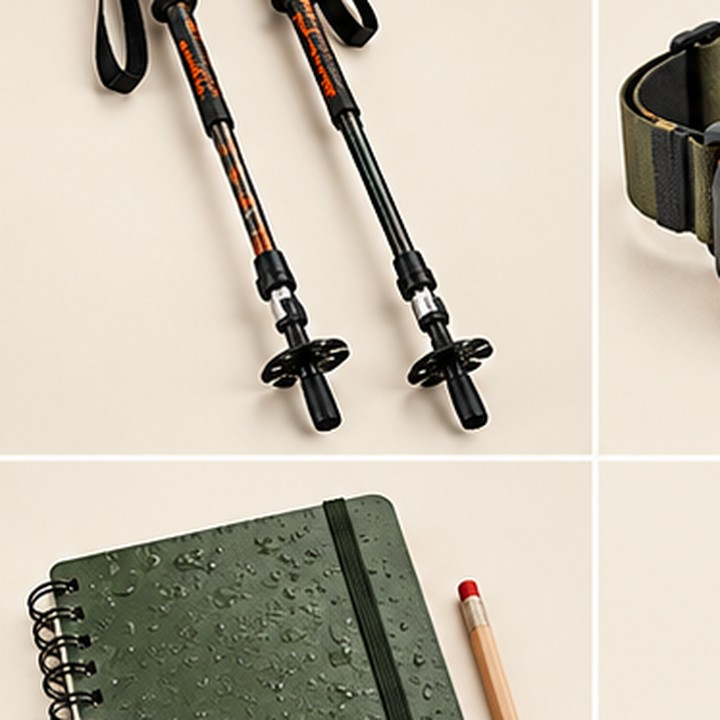
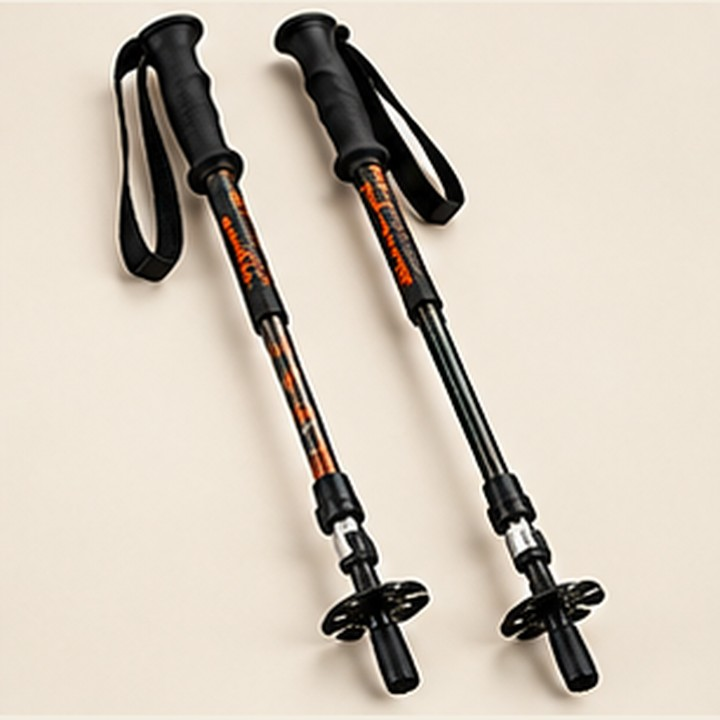
Add files via upload

diff --git a/css/styles.css b/css/styles.css
@@ -1,5 +1,5 @@
 @import url('https://fonts.googleapis.com/css2?family=DM+Sans:wght@400;500;600;700&family=Playfair+Display:ital,wght@0,500;0,600;0,700;1,500;1,600&display=swap');
-:root{--forest:#183b2d;--forest2:#254e3b;--moss:#758361;--cream:#f3f0e6;--paper:#fbfaf5;--sand:#dfd5bf;--orange:#db6a36;--ink:#1e2922;--muted:#69736a;--line:#deded2;--max:1380px}*{box-sizing:border-box}html{scroll-behavior:smooth;scroll-padding-top:90px}body{margin:0;background:var(--paper);color:var(--ink);font-family:'DM Sans',Arial,sans-serif;line-height:1.5}a{color:inherit;text-decoration:none}button,input,select{font:inherit}button{cursor:pointer;color:inherit}.sr-only{position:absolute;width:1px;height:1px;padding:0;margin:-1px;overflow:hidden;clip:rect(0,0,0,0);white-space:nowrap;border:0}.topline{display:flex;justify-content:space-between;padding:8px max(22px,calc((100vw - var(--max))/2));background:var(--forest);color:#e9e9d7;font-size:9px;letter-spacing:.15em}.header{max-width:var(--max);margin:auto;padding:17px 28px;display:grid;grid-template-columns:260px minmax(230px,1fr) auto;gap:28px;align-items:center}.brand{display:flex;align-items:center;gap:10px}.brand img{width:58px;height:58px;object-fit:contain}.brand span{display:flex;flex-direction:column;line-height:1.1}.brand b{font-family:'Playfair Display',serif;font-size:27px;letter-spacing:.08em}.brand small{font-size:8px;letter-spacing:.14em;color:var(--moss);margin-top:5px;font-weight:700}.search{height:43px;display:flex;border:1px solid #d6d7cc;background:white;border-radius:3px;max-width:650px;width:100%}.search:focus-within{border-color:var(--forest)}.search input{flex:1;min-width:0;border:0;outline:0;padding:0 14px;background:transparent;font-size:12px}.search button{width:44px;border:0;background:var(--forest);color:white;font-size:25px}.header-actions{display:flex;gap:16px}.head-action{border:0;background:transparent;font-size:13px;display:flex;align-items:center;gap:7px}.head-action b{background:var(--forest);color:white;border-radius:50%;font-size:10px;min-width:20px;height:20px;display:grid;place-items:center}.nav{display:flex;justify-content:center;gap:0;border-top:1px solid var(--line);border-bottom:1px solid var(--line);overflow:auto;white-space:nowrap;padding:0 10px;background:#fffdf8}.nav a{padding:13px 19px;font-size:11px;color:#4c594f;border-bottom:2px solid transparent}.nav a:hover,.nav a.selected{border-color:var(--orange);color:var(--forest)}main{max-width:var(--max);margin:auto}.hero{position:relative;min-height:570px;overflow:hidden;background:#22382c;display:flex;align-items:center;color:white}.hero-image{position:absolute;inset:0;width:100%;height:100%;object-fit:cover;object-position:center 56%}.hero-shade{position:absolute;inset:0;background:linear-gradient(90deg,rgba(17,39,29,.94) 0%,rgba(22,47,35,.79) 35%,rgba(22,47,35,.24) 72%,rgba(22,47,35,.1) 100%)}.hero-copy{position:relative;z-index:1;padding:64px 6.5%;max-width:680px}.eyebrow{margin:0 0 14px;font-size:9px;letter-spacing:.19em;font-weight:700;color:var(--orange)}.hero .eyebrow{color:#f4c89c}.hero .eyebrow span{display:inline-block;width:7px;height:7px;background:var(--orange);border-radius:50%;margin-right:9px}.hero h1{font-family:'Playfair Display',serif;font-size:clamp(54px,7vw,92px);line-height:.96;letter-spacing:-.05em;margin:0 0 20px;font-weight:600}.hero h1 em,.section-head h2 em,.wide-callout h2 em,.story h2 em,.newsletter h2 em{font-style:italic;color:#e9b080}.hero-copy>p:not(.eyebrow){max-width:455px;color:#e0e5db;font-size:15px;line-height:1.8;margin:0 0 26px}.hero-buttons{display:flex;gap:10px;flex-wrap:wrap}.button{display:inline-flex;justify-content:center;align-items:center;gap:18px;border:1px solid transparent;border-radius:2px;padding:13px 17px;font-size:11px;font-weight:700;transition:transform .2s,background .2s}.button:hover{transform:translateY(-2px)}.button-orange{background:var(--orange);color:white}.button-orange:hover{background:#c85b2b}.button-light{background:#fffaf0;color:var(--forest);border-color:#fffaf0}.button-green{background:var(--forest);color:white}.button-green:hover{background:var(--forest2)}.hero-caption{display:flex;gap:14px;align-items:center;margin-top:43px;font-size:10px;color:#d1d9ce}.hero-caption b{color:#f2b78d;letter-spacing:.14em}.hero-stamp{position:absolute;right:5%;bottom:40px;border:1px solid #f5e9d099;border-radius:50%;width:110px;height:110px;display:flex;flex-direction:column;align-items:center;justify-content:center;color:#f7f0e0;text-align:center;font-size:11px;font-weight:700;letter-spacing:.12em;transform:rotate(10deg)}.hero-stamp b{font-size:20px;color:#f2b78d}.principles{display:grid;grid-template-columns:repeat(3,1fr);border-bottom:1px solid var(--line);padding:23px 42px;gap:20px;background:#f3f0e6}.principles>div{display:flex;align-items:center;gap:14px}.principles>div>b{font-family:'Playfair Display',serif;font-size:25px;color:var(--orange)}.principles strong,.principles small{display:block}.principles strong{font-size:12px}.principles small{font-size:10px;color:var(--muted);margin-top:3px}.section{padding:70px 34px}.section-head{display:flex;justify-content:space-between;align-items:end;gap:24px;margin-bottom:28px}.section-head h2,.story h2,.newsletter h2{font-family:'Playfair Display',serif;font-size:clamp(34px,4vw,49px);line-height:1.05;letter-spacing:-.035em;margin:0}.section-head h2 em,.story h2 em,.newsletter h2 em{color:var(--forest)}.section-head>p{max-width:350px;color:var(--muted);font-size:12px;margin:0 0 3px}.category-grid{display:grid;grid-template-columns:repeat(4,1fr);gap:13px}.category-card{min-height:230px;position:relative;overflow:hidden;border:0;text-align:left;color:white;padding:22px;display:flex;flex-direction:column;align-items:flex-start;justify-content:flex-end;background:var(--forest);isolation:isolate}.category-card:before{content:"";position:absolute;inset:0;z-index:-1;transition:transform .35s;background:linear-gradient(0deg,rgba(13,37,26,.91),rgba(13,37,26,.04))}.category-card:hover:after{transform:scale(1.06)}.category-card:after{content:"";position:absolute;inset:0;z-index:-2;transition:transform .35s;background-size:cover;background-position:center}.cat-map:after{background-image:url('../assets/images/products/topographic-map-set.jpg')}.cat-nav:after{background-image:url('../assets/images/products/baseplate-compass.jpg')}.cat-hike:after{background-image:url('../assets/images/products/trekking-poles.jpg')}.cat-pack:after{background-image:url('../assets/images/products/hiking-backpack.jpg')}.category-index{position:absolute;top:17px;left:20px;font-size:8px;letter-spacing:.17em;color:#f0c49c}.category-symbol{font-family:'Playfair Display',serif;font-size:42px;line-height:1;margin-bottom:auto;color:#f0c49c}.category-card strong{font-family:'Playfair Display',serif;font-size:22px;font-weight:500}.category-card small{font-size:10px;margin-top:6px;color:#eee7d8}.shop{padding-top:12px}.shop-toolbar{display:flex;align-items:center;justify-content:space-between;margin:0 0 15px;padding:12px 0;border-top:1px solid var(--line);font-size:10px;color:var(--muted)}.shop-toolbar>div{display:flex;gap:8px}.shop-toolbar select{border:1px solid #d4d5ca;background:#fffdf8;padding:9px 24px 9px 10px;color:var(--ink);font-size:10px;border-radius:2px}.product-grid{display:grid;grid-template-columns:repeat(4,minmax(0,1fr));gap:14px}.product-card{border:1px solid #e0dfd4;background:#fffdf8;min-width:0;transition:transform .2s,border-color .2s;position:relative}.product-card:hover{transform:translateY(-4px);border-color:#a6b09a}.product-image{aspect-ratio:1/1;background:#f0ebdf;position:relative;overflow:hidden}.product-image img{width:100%;height:100%;display:block;object-fit:contain;object-position:center}.product-label{position:absolute;left:10px;top:10px;background:#f8f4e9;color:var(--forest);padding:5px 7px;font-size:7px;font-weight:700;letter-spacing:.13em}.favorite{position:absolute;right:9px;top:9px;border:1px solid #d7d7cb;background:#fffdf8;border-radius:50%;width:31px;height:31px;font-size:18px;display:grid;place-items:center;color:var(--forest)}.favorite.active{background:var(--orange);color:white;border-color:var(--orange)}.product-info{padding:15px}.product-category{font-size:8px;letter-spacing:.15em;color:var(--moss);font-weight:700;margin:0 0 7px}.product-info h3{font-family:'Playfair Display',serif;font-size:17px;line-height:1.2;margin:0 0 8px;font-weight:600}.product-desc{font-size:10px;color:var(--muted);line-height:1.6;margin:0 0 14px;min-height:48px}.product-bottom{display:flex;align-items:center;justify-content:space-between;gap:8px}.price{font-size:17px;font-weight:700;letter-spacing:-.04em}.add-btn{border:1px solid var(--forest);background:var(--forest);color:white;padding:9px 10px;font-size:9px;font-weight:700;white-space:nowrap}.add-btn:hover{background:var(--orange);border-color:var(--orange)}.view-btn{border:0;background:transparent;color:var(--forest);font-size:10px;text-decoration:underline;text-underline-offset:3px;padding:12px 0 0}.wide-callout{margin:0 34px 60px;background:var(--forest);color:#f8f5eb;min-height:280px;padding:42px 5%;display:flex;justify-content:space-between;align-items:center;overflow:hidden;position:relative}.wide-callout .eyebrow{color:#f2b78d}.wide-callout h2{font-family:'Playfair Display',serif;font-size:clamp(28px,4vw,45px);line-height:1.13;margin:0 0 14px}.wide-callout p:not(.eyebrow){max-width:510px;color:#d5dfd3;font-size:12px}.wide-callout a,.under-link{display:inline-block;margin-top:10px;font-size:11px;font-weight:700;color:#f2b78d;border-bottom:1px solid #f2b78d;padding-bottom:5px}.callout-mark{width:190px;height:190px;border:1px solid #cdd9bf70;border-radius:50%;display:grid;place-items:center;position:relative;flex-shrink:0;margin-right:5%}.callout-mark:before,.callout-mark:after{content:"";position:absolute;inset:15px;border:1px solid #cdd9bf55;border-radius:50%}.callout-mark:after{inset:35px}.callout-mark span{font-family:'Playfair Display',serif;font-size:90px;color:#e9b080}.callout-mark i{position:absolute;right:17px;top:20px;font-size:28px;color:#e9b080;font-style:normal}.story{display:grid;grid-template-columns:1fr 1fr;gap:60px;align-items:center;padding:10px 34px 72px}.story-map{background:var(--cream);padding:20px}.story-map img{display:block;width:100%;aspect-ratio:1.35;object-fit:cover}.story h2{margin-bottom:18px}.story p:not(.eyebrow){font-size:12px;color:var(--muted);line-height:1.9}.newsletter{display:flex;align-items:center;justify-content:space-between;gap:30px;padding:40px 34px;background:#ece8dc;border-top:1px solid #ded9ca}.newsletter h2{font-size:34px}.newsletter p:not(.eyebrow){color:var(--muted);font-size:11px}.newsletter form{display:grid;grid-template-columns:minmax(190px,300px) auto;gap:8px;max-width:490px;width:100%}.newsletter input{border:1px solid #d1d0c2;background:#fffdf8;padding:12px;min-width:0;font-size:11px}.newsletter small{grid-column:1/-1;font-size:9px;color:var(--muted)}.footer{max-width:var(--max);margin:auto;padding:38px 34px 18px;display:grid;grid-template-columns:1.3fr 1fr 1fr 1.3fr;gap:25px}.footer-brand img{width:115px;height:90px;object-fit:contain;object-position:left center}.footer-brand p,.footer p{font-size:10px;color:var(--muted)}.footer>div:not(.footer-brand):not(.footer-bottom){display:flex;flex-direction:column;align-items:flex-start;gap:9px}.footer strong{font-size:11px}.footer a{font-size:10px;color:var(--muted)}.footer a:hover{color:var(--orange)}.footer-bottom{grid-column:1/-1;border-top:1px solid var(--line);padding-top:15px;margin-top:10px;display:flex;justify-content:space-between;color:var(--muted);font-size:9px}.overlay{position:fixed;inset:0;background:#10170f9c;z-index:20;backdrop-filter:blur(3px)}.overlay[hidden],.drawer[hidden]{display:none}.drawer{position:fixed;right:0;top:0;bottom:0;z-index:21;width:min(430px,100vw);background:#fbfaf5;padding:23px;display:flex;flex-direction:column;box-shadow:-15px 0 50px #0002;border-left:1px solid var(--line)}.drawer-head{display:flex;align-items:center;justify-content:space-between;border-bottom:1px solid var(--line);padding-bottom:16px}.drawer-head .eyebrow{margin-bottom:4px}.drawer-head h2{font-family:'Playfair Display',serif;margin:0;font-size:27px}.drawer-head small{font-family:'DM Sans',sans-serif;font-size:12px;color:var(--muted)}.close-drawer,.close-dialog{width:35px;height:35px;border:1px solid var(--line);border-radius:50%;background:white;font-size:24px}.drawer-content{flex:1;overflow:auto;padding:10px 0}.empty-state{text-align:center;color:var(--muted);padding:45px 10px;font-size:12px}.drawer-item{display:grid;grid-template-columns:76px 1fr auto;gap:12px;padding:12px 0;border-bottom:1px solid var(--line)}.drawer-item img{width:76px;height:76px;object-fit:contain;background:#f0ebdf}.drawer-item h3{font-family:'Playfair Display',serif;font-size:14px;margin:3px 0}.drawer-item p{font-size:11px;color:var(--muted);margin:0 0 8px}.qty{display:flex;align-items:center;gap:8px}.qty button{width:23px;height:23px;border:1px solid var(--line);background:white}.remove{background:none;border:0;font-size:20px;color:var(--muted)}.drawer-foot{border-top:1px solid var(--line);padding-top:15px}.subtotal{display:flex;justify-content:space-between}.drawer-foot p,.drawer-foot small{font-size:9px;color:var(--muted)}.full{width:100%;margin:10px 0}dialog{border:1px solid var(--line);padding:0;width:min(760px,calc(100vw - 25px));max-height:90vh;background:#fbfaf5;color:var(--ink)}dialog::backdrop{background:#17261cc7;backdrop-filter:blur(4px)}.close-dialog{position:sticky;top:10px;float:right;margin:10px -44px -45px 0;z-index:2}.detail-layout{display:grid;grid-template-columns:1fr 1fr;gap:24px;padding:25px}.detail-layout img{width:100%;aspect-ratio:1;object-fit:contain;background:#f0ebdf}.detail-layout h2{font-family:'Playfair Display',serif;font-size:30px;line-height:1.1}.detail-layout p{font-size:12px;color:var(--muted)}.detail-layout .price{font-size:23px;margin:20px 0}.toast{position:fixed;bottom:22px;left:50%;transform:translate(-50%,20px);opacity:0;pointer-events:none;z-index:40;background:var(--forest);color:white;padding:12px 18px;font-size:11px;box-shadow:0 6px 24px #0002;transition:.2s}.toast.show{opacity:1;transform:translate(-50%,0)}.no-results{grid-column:1/-1;padding:40px;text-align:center;border:1px dashed var(--line);color:var(--muted)}
+:root{--forest:#183b2d;--forest2:#254e3b;--moss:#758361;--cream:#f3f0e6;--paper:#fbfaf5;--sand:#dfd5bf;--orange:#db6a36;--ink:#1e2922;--muted:#69736a;--line:#deded2;--max:1380px}*{box-sizing:border-box}html{scroll-behavior:smooth;scroll-padding-top:90px}body{margin:0;background:var(--paper);color:var(--ink);font-family:'DM Sans',Arial,sans-serif;line-height:1.5}a{color:inherit;text-decoration:none}button,input,select{font:inherit}button{cursor:pointer;color:inherit}.sr-only{position:absolute;width:1px;height:1px;padding:0;margin:-1px;overflow:hidden;clip:rect(0,0,0,0);white-space:nowrap;border:0}.topline{display:flex;justify-content:space-between;padding:8px max(22px,calc((100vw - var(--max))/2));background:var(--forest);color:#e9e9d7;font-size:9px;letter-spacing:.15em}.header{max-width:var(--max);margin:auto;padding:17px 28px;display:grid;grid-template-columns:260px minmax(230px,1fr) auto;gap:28px;align-items:center}.brand{display:flex;align-items:center;gap:10px}.brand img{width:58px;height:58px;object-fit:contain}.brand span{display:flex;flex-direction:column;line-height:1.1}.brand b{font-family:'Playfair Display',serif;font-size:27px;letter-spacing:.08em}.brand small{font-size:8px;letter-spacing:.14em;color:var(--moss);margin-top:5px;font-weight:700}.search{height:43px;display:flex;border:1px solid #d6d7cc;background:white;border-radius:3px;max-width:650px;width:100%}.search:focus-within{border-color:var(--forest)}.search input{flex:1;min-width:0;border:0;outline:0;padding:0 14px;background:transparent;font-size:12px}.search button{width:44px;border:0;background:var(--forest);color:white;font-size:25px}.header-actions{display:flex;gap:16px}.head-action{border:0;background:transparent;font-size:13px;display:flex;align-items:center;gap:7px}.head-action b{background:var(--forest);color:white;border-radius:50%;font-size:10px;min-width:20px;height:20px;display:grid;place-items:center}.nav{display:flex;justify-content:center;gap:0;border-top:1px solid var(--line);border-bottom:1px solid var(--line);overflow:auto;white-space:nowrap;padding:0 10px;background:#fffdf8}.nav a{padding:13px 19px;font-size:11px;color:#4c594f;border-bottom:2px solid transparent}.nav a:hover,.nav a.selected{border-color:var(--orange);color:var(--forest)}main{max-width:var(--max);margin:auto}.hero{position:relative;min-height:570px;overflow:hidden;background:#22382c;display:flex;align-items:center;color:white}.hero-image{position:absolute;inset:0;width:100%;height:100%;object-fit:cover;object-position:center 56%}.hero-shade{position:absolute;inset:0;background:linear-gradient(90deg,rgba(17,39,29,.94) 0%,rgba(22,47,35,.79) 35%,rgba(22,47,35,.24) 72%,rgba(22,47,35,.1) 100%)}.hero-copy{position:relative;z-index:1;padding:64px 6.5%;max-width:680px}.eyebrow{margin:0 0 14px;font-size:9px;letter-spacing:.19em;font-weight:700;color:var(--orange)}.hero .eyebrow{color:#f4c89c}.hero .eyebrow span{display:inline-block;width:7px;height:7px;background:var(--orange);border-radius:50%;margin-right:9px}.hero h1{font-family:'Playfair Display',serif;font-size:clamp(54px,7vw,92px);line-height:.96;letter-spacing:-.05em;margin:0 0 20px;font-weight:600}.hero h1 em,.section-head h2 em,.wide-callout h2 em,.story h2 em,.newsletter h2 em{font-style:italic;color:#e9b080}.hero-copy>p:not(.eyebrow){max-width:455px;color:#e0e5db;font-size:15px;line-height:1.8;margin:0 0 26px}.hero-buttons{display:flex;gap:10px;flex-wrap:wrap}.button{display:inline-flex;justify-content:center;align-items:center;gap:18px;border:1px solid transparent;border-radius:2px;padding:13px 17px;font-size:11px;font-weight:700;transition:transform .2s,background .2s}.button:hover{transform:translateY(-2px)}.button-orange{background:var(--orange);color:white}.button-orange:hover{background:#c85b2b}.button-light{background:#fffaf0;color:var(--forest);border-color:#fffaf0}.button-green{background:var(--forest);color:white}.button-green:hover{background:var(--forest2)}.hero-caption{display:flex;gap:14px;align-items:center;margin-top:43px;font-size:10px;color:#d1d9ce}.hero-caption b{color:#f2b78d;letter-spacing:.14em}.hero-stamp{position:absolute;right:5%;bottom:40px;border:1px solid #f5e9d099;border-radius:50%;width:110px;height:110px;display:flex;flex-direction:column;align-items:center;justify-content:center;color:#f7f0e0;text-align:center;font-size:11px;font-weight:700;letter-spacing:.12em;transform:rotate(10deg)}.hero-stamp b{font-size:20px;color:#f2b78d}.principles{display:grid;grid-template-columns:repeat(3,1fr);border-bottom:1px solid var(--line);padding:23px 42px;gap:20px;background:#f3f0e6}.principles>div{display:flex;align-items:center;gap:14px}.principles>div>b{font-family:'Playfair Display',serif;font-size:25px;color:var(--orange)}.principles strong,.principles small{display:block}.principles strong{font-size:12px}.principles small{font-size:10px;color:var(--muted);margin-top:3px}.section{padding:70px 34px}.section-head{display:flex;justify-content:space-between;align-items:end;gap:24px;margin-bottom:28px}.section-head h2,.story h2,.newsletter h2{font-family:'Playfair Display',serif;font-size:clamp(34px,4vw,49px);line-height:1.05;letter-spacing:-.035em;margin:0}.section-head h2 em,.story h2 em,.newsletter h2 em{color:var(--forest)}.section-head>p{max-width:350px;color:var(--muted);font-size:12px;margin:0 0 3px}.category-grid{display:grid;grid-template-columns:repeat(4,1fr);gap:13px}.category-card{min-height:230px;position:relative;overflow:hidden;border:0;text-align:left;color:white;padding:22px;display:flex;flex-direction:column;align-items:flex-start;justify-content:flex-end;background:var(--forest);isolation:isolate}.category-card:before{content:"";position:absolute;inset:0;z-index:-1;transition:transform .35s;background:linear-gradient(0deg,rgba(13,37,26,.91),rgba(13,37,26,.04))}.category-card:hover:after{transform:scale(1.06)}.category-card:after{content:"";position:absolute;inset:0;z-index:-2;transition:transform .35s;background-size:cover;background-position:center}.cat-map:after{background-image:url('../assets/images/products/topographic-map-set.jpg')}.cat-nav:after{background-image:url('../assets/images/products/baseplate-compass.jpg')}.cat-hike:after{background-image:url('../assets/images/products/trekking-poles.jpg')}.cat-pack:after{background-image:url('../assets/images/products/hiking-backpack.jpg')}.category-index{position:absolute;top:17px;left:20px;font-size:8px;letter-spacing:.17em;color:#f0c49c}.category-symbol{font-family:'Playfair Display',serif;font-size:42px;line-height:1;margin-bottom:auto;color:#f0c49c}.category-card strong{font-family:'Playfair Display',serif;font-size:22px;font-weight:500}.category-card small{font-size:10px;margin-top:6px;color:#eee7d8}.shop{padding-top:12px}.shop-toolbar{display:flex;align-items:center;justify-content:space-between;margin:0 0 15px;padding:12px 0;border-top:1px solid var(--line);font-size:10px;color:var(--muted)}.shop-toolbar>div{display:flex;gap:8px}.shop-toolbar select{border:1px solid #d4d5ca;background:#fffdf8;padding:9px 24px 9px 10px;color:var(--ink);font-size:10px;border-radius:2px}.product-grid{display:grid;grid-template-columns:repeat(4,minmax(0,1fr));gap:14px}.product-card{border:1px solid #e0dfd4;background:#fffdf8;min-width:0;transition:transform .2s,border-color .2s;position:relative}.product-card:hover{transform:translateY(-4px);border-color:#a6b09a}.product-image{aspect-ratio:1/1;background:#f0ebdf;position:relative;overflow:hidden}.product-image img{width:100%;height:100%;display:block;object-fit:contain;object-position:center;background:#f0ebdf}.product-label{position:absolute;left:10px;top:10px;background:#f8f4e9;color:var(--forest);padding:5px 7px;font-size:7px;font-weight:700;letter-spacing:.13em}.favorite{position:absolute;right:9px;top:9px;border:1px solid #d7d7cb;background:#fffdf8;border-radius:50%;width:31px;height:31px;font-size:18px;display:grid;place-items:center;color:var(--forest)}.favorite.active{background:var(--orange);color:white;border-color:var(--orange)}.product-info{padding:15px}.product-category{font-size:8px;letter-spacing:.15em;color:var(--moss);font-weight:700;margin:0 0 7px}.product-info h3{font-family:'Playfair Display',serif;font-size:17px;line-height:1.2;margin:0 0 8px;font-weight:600}.product-desc{font-size:10px;color:var(--muted);line-height:1.6;margin:0 0 14px;min-height:48px}.product-bottom{display:flex;align-items:center;justify-content:space-between;gap:8px}.price{font-size:17px;font-weight:700;letter-spacing:-.04em}.add-btn{border:1px solid var(--forest);background:var(--forest);color:white;padding:9px 10px;font-size:9px;font-weight:700;white-space:nowrap}.add-btn:hover{background:var(--orange);border-color:var(--orange)}.view-btn{border:0;background:transparent;color:var(--forest);font-size:10px;text-decoration:underline;text-underline-offset:3px;padding:12px 0 0}.wide-callout{margin:0 34px 60px;background:var(--forest);color:#f8f5eb;min-height:280px;padding:42px 5%;display:flex;justify-content:space-between;align-items:center;overflow:hidden;position:relative}.wide-callout .eyebrow{color:#f2b78d}.wide-callout h2{font-family:'Playfair Display',serif;font-size:clamp(28px,4vw,45px);line-height:1.13;margin:0 0 14px}.wide-callout p:not(.eyebrow){max-width:510px;color:#d5dfd3;font-size:12px}.wide-callout a,.under-link{display:inline-block;margin-top:10px;font-size:11px;font-weight:700;color:#f2b78d;border-bottom:1px solid #f2b78d;padding-bottom:5px}.callout-mark{width:190px;height:190px;border:1px solid #cdd9bf70;border-radius:50%;display:grid;place-items:center;position:relative;flex-shrink:0;margin-right:5%}.callout-mark:before,.callout-mark:after{content:"";position:absolute;inset:15px;border:1px solid #cdd9bf55;border-radius:50%}.callout-mark:after{inset:35px}.callout-mark span{font-family:'Playfair Display',serif;font-size:90px;color:#e9b080}.callout-mark i{position:absolute;right:17px;top:20px;font-size:28px;color:#e9b080;font-style:normal}.story{display:grid;grid-template-columns:1fr 1fr;gap:60px;align-items:center;padding:10px 34px 72px}.story-map{background:var(--cream);padding:20px}.story-map img{display:block;width:100%;aspect-ratio:1.35;object-fit:cover}.story h2{margin-bottom:18px}.story p:not(.eyebrow){font-size:12px;color:var(--muted);line-height:1.9}.newsletter{display:flex;align-items:center;justify-content:space-between;gap:30px;padding:40px 34px;background:#ece8dc;border-top:1px solid #ded9ca}.newsletter h2{font-size:34px}.newsletter p:not(.eyebrow){color:var(--muted);font-size:11px}.newsletter form{display:grid;grid-template-columns:minmax(190px,300px) auto;gap:8px;max-width:490px;width:100%}.newsletter input{border:1px solid #d1d0c2;background:#fffdf8;padding:12px;min-width:0;font-size:11px}.newsletter small{grid-column:1/-1;font-size:9px;color:var(--muted)}.footer{max-width:var(--max);margin:auto;padding:38px 34px 18px;display:grid;grid-template-columns:1.3fr 1fr 1fr 1.3fr;gap:25px}.footer-brand img{width:115px;height:90px;object-fit:contain;object-position:left center}.footer-brand p,.footer p{font-size:10px;color:var(--muted)}.footer>div:not(.footer-brand):not(.footer-bottom){display:flex;flex-direction:column;align-items:flex-start;gap:9px}.footer strong{font-size:11px}.footer a{font-size:10px;color:var(--muted)}.footer a:hover{color:var(--orange)}.footer-bottom{grid-column:1/-1;border-top:1px solid var(--line);padding-top:15px;margin-top:10px;display:flex;justify-content:space-between;color:var(--muted);font-size:9px}.overlay{position:fixed;inset:0;background:#10170f9c;z-index:20;backdrop-filter:blur(3px)}.overlay[hidden],.drawer[hidden]{display:none}.drawer{position:fixed;right:0;top:0;bottom:0;z-index:21;width:min(430px,100vw);background:#fbfaf5;padding:23px;display:flex;flex-direction:column;box-shadow:-15px 0 50px #0002;border-left:1px solid var(--line)}.drawer-head{display:flex;align-items:center;justify-content:space-between;border-bottom:1px solid var(--line);padding-bottom:16px}.drawer-head .eyebrow{margin-bottom:4px}.drawer-head h2{font-family:'Playfair Display',serif;margin:0;font-size:27px}.drawer-head small{font-family:'DM Sans',sans-serif;font-size:12px;color:var(--muted)}.close-drawer,.close-dialog{width:35px;height:35px;border:1px solid var(--line);border-radius:50%;background:white;font-size:24px}.drawer-content{flex:1;overflow:auto;padding:10px 0}.empty-state{text-align:center;color:var(--muted);padding:45px 10px;font-size:12px}.drawer-item{display:grid;grid-template-columns:76px 1fr auto;gap:12px;padding:12px 0;border-bottom:1px solid var(--line)}.drawer-item img{width:76px;height:76px;object-fit:contain;background:#f0ebdf}.drawer-item h3{font-family:'Playfair Display',serif;font-size:14px;margin:3px 0}.drawer-item p{font-size:11px;color:var(--muted);margin:0 0 8px}.qty{display:flex;align-items:center;gap:8px}.qty button{width:23px;height:23px;border:1px solid var(--line);background:white}.remove{background:none;border:0;font-size:20px;color:var(--muted)}.drawer-foot{border-top:1px solid var(--line);padding-top:15px}.subtotal{display:flex;justify-content:space-between}.drawer-foot p,.drawer-foot small{font-size:9px;color:var(--muted)}.full{width:100%;margin:10px 0}dialog{border:1px solid var(--line);padding:0;width:min(760px,calc(100vw - 25px));max-height:90vh;background:#fbfaf5;color:var(--ink)}dialog::backdrop{background:#17261cc7;backdrop-filter:blur(4px)}.close-dialog{position:sticky;top:10px;float:right;margin:10px -44px -45px 0;z-index:2}.detail-layout{display:grid;grid-template-columns:1fr 1fr;gap:24px;padding:25px}.detail-layout img{width:100%;aspect-ratio:1;object-fit:contain;background:#f0ebdf}.detail-layout h2{font-family:'Playfair Display',serif;font-size:30px;line-height:1.1}.detail-layout p{font-size:12px;color:var(--muted)}.detail-layout .price{font-size:23px;margin:20px 0}.toast{position:fixed;bottom:22px;left:50%;transform:translate(-50%,20px);opacity:0;pointer-events:none;z-index:40;background:var(--forest);color:white;padding:12px 18px;font-size:11px;box-shadow:0 6px 24px #0002;transition:.2s}.toast.show{opacity:1;transform:translate(-50%,0)}.no-results{grid-column:1/-1;padding:40px;text-align:center;border:1px dashed var(--line);color:var(--muted)}
 @media(max-width:1000px){.header{grid-template-columns:190px 1fr auto;gap:15px}.brand img{width:48px;height:48px}.brand b{font-size:23px}.nav a{padding:12px}.hero{min-height:500px}.category-grid{grid-template-columns:repeat(2,1fr)}.product-grid{grid-template-columns:repeat(3,minmax(0,1fr))}.footer{grid-template-columns:repeat(2,1fr)}}
 @media(max-width:680px){.topline{padding:8px 14px;font-size:8px}.topline span:nth-child(2){display:none}.header{grid-template-columns:1fr auto;padding:12px 15px;gap:10px}.brand{grid-column:1}.brand img{width:44px;height:44px}.brand b{font-size:21px}.brand small{font-size:7px}.search{grid-column:1/-1;grid-row:2;max-width:none}.header-actions{grid-column:2;grid-row:1;gap:7px}.head-action{font-size:11px}.head-action span{display:none}.nav{justify-content:flex-start}.nav a{font-size:10px;padding:12px}.hero{min-height:530px;align-items:flex-end}.hero-image{object-position:62% center}.hero-shade{background:linear-gradient(0deg,rgba(17,39,29,.95),rgba(17,39,29,.64) 55%,rgba(17,39,29,.12))}.hero-copy{padding:36px 22px 30px}.hero h1{font-size:58px}.hero-copy>p:not(.eyebrow){font-size:13px}.hero-stamp{width:78px;height:78px;right:15px;top:15px;font-size:8px}.hero-stamp b{font-size:15px}.principles{grid-template-columns:1fr;padding:18px 20px;gap:14px}.principles>div>b{font-size:20px}.section{padding:45px 15px}.section-head{display:block}.section-head>p{margin-top:12px}.category-grid{gap:8px}.category-card{min-height:190px;padding:14px}.category-card strong{font-size:18px}.category-index{left:13px;top:13px;font-size:7px}.category-symbol{font-size:34px}.shop{padding-top:0}.shop-toolbar{align-items:flex-start;gap:10px}.shop-toolbar>div{flex-direction:column;width:58%}.shop-toolbar select{width:100%}.product-grid{grid-template-columns:repeat(2,minmax(0,1fr));gap:9px}.product-info{padding:10px}.product-info h3{font-size:14px}.product-desc{font-size:9px;min-height:55px}.product-bottom{align-items:flex-start;flex-direction:column}.price{font-size:16px}.add-btn{width:100%}.product-label{font-size:6px;max-width:calc(100% - 50px);white-space:nowrap;overflow:hidden;text-overflow:ellipsis}.wide-callout{margin:0 15px 42px;padding:28px 22px;min-height:250px}.wide-callout h2{font-size:30px}.callout-mark{width:80px;height:80px;margin:0 0 0 8px}.callout-mark:before{inset:7px}.callout-mark:after{inset:15px}.callout-mark span{font-size:40px}.callout-mark i{font-size:15px;right:7px;top:7px}.story{grid-template-columns:1fr;gap:25px;padding:0 15px 45px}.story-map{padding:10px}.story h2{font-size:36px}.newsletter{display:block;padding:32px 16px}.newsletter form{grid-template-columns:1fr;margin-top:20px}.newsletter small{grid-column:1}.footer{grid-template-columns:repeat(2,minmax(0,1fr));padding:30px 16px 18px;gap:22px 15px}.footer-bottom{display:block;line-height:2}.footer-bottom span{display:block}.detail-layout{grid-template-columns:1fr;padding:20px}.detail-layout img{max-height:280px}.close-dialog{margin-right:10px}.drawer{padding:17px}}
 @media(prefers-reduced-motion:reduce){*,*:before,*:after{scroll-behavior:auto!important;transition:none!important}}

diff --git a/CHANGELOG.md b/CHANGELOG.md
@@ -1,5 +1,11 @@
 # Changelog
 
+## V2 — 2026-10-13
+- Corrected product image slicing to match the source image's actual 4×4 grid geometry.
+- Re-exported all 16 product photos as individual square files, with safe padding to avoid adjacent product bleed and preserve full objects.
+- Verified each product points to its own local image file.
+- Repacked the project and checked ZIP integrity and local paths.
+
 ## V1 — 2026-10-13
 - Initial NORTE storefront structure and brand identity.
 - Added 16-item local product catalog with illustrative market-informed prices.
